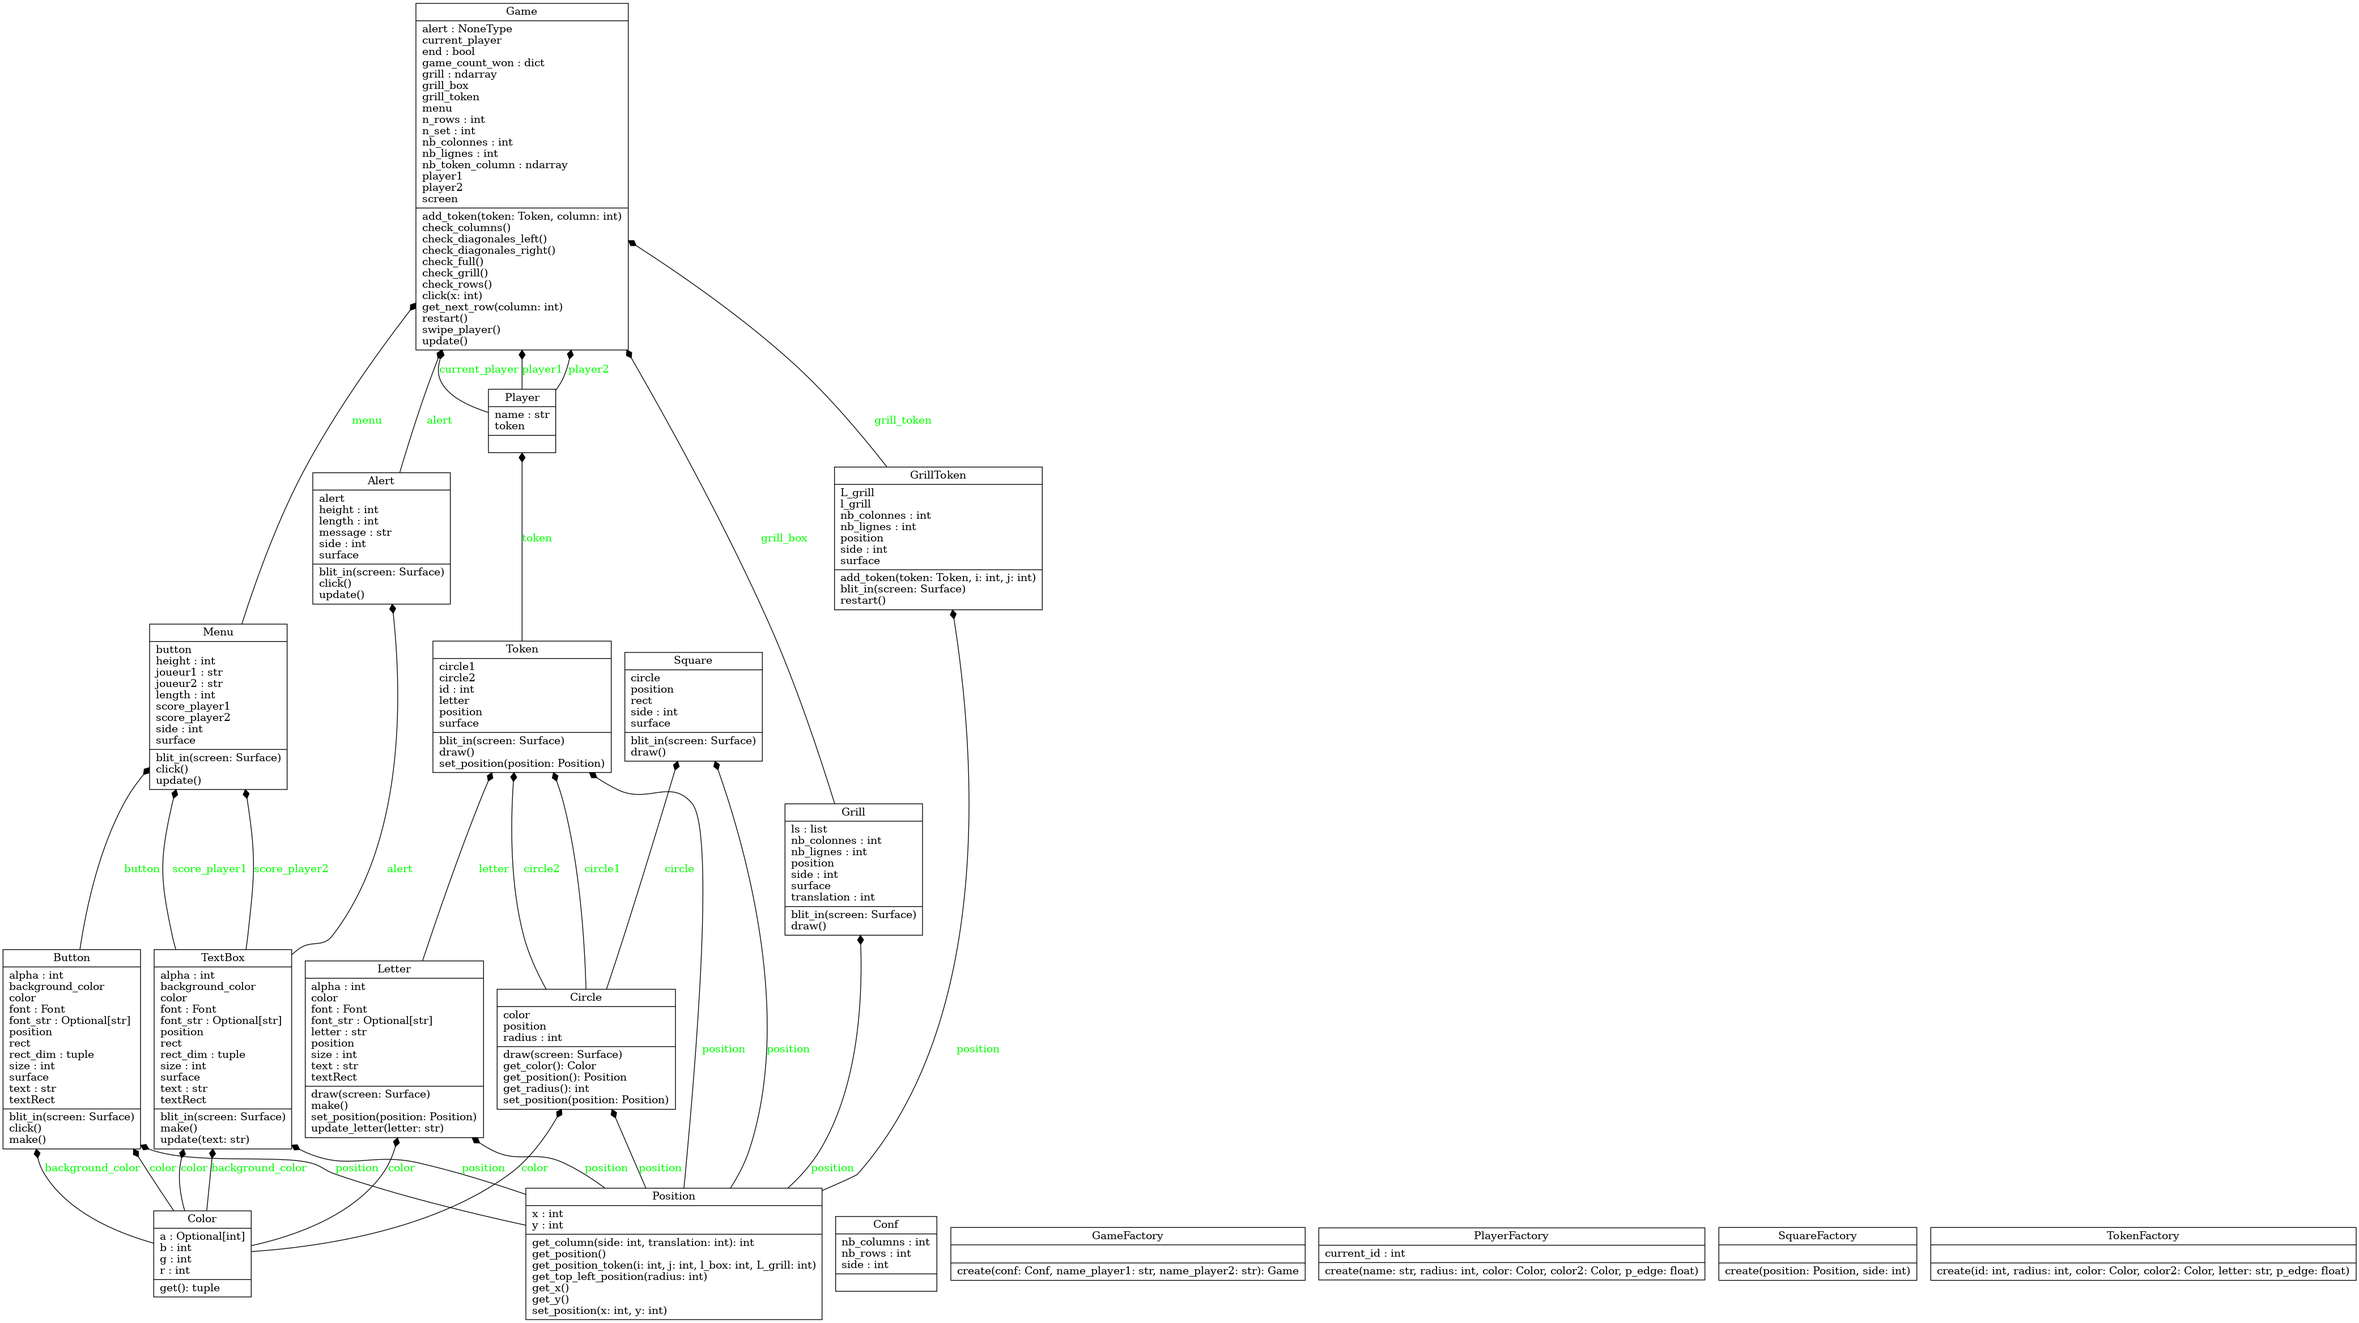
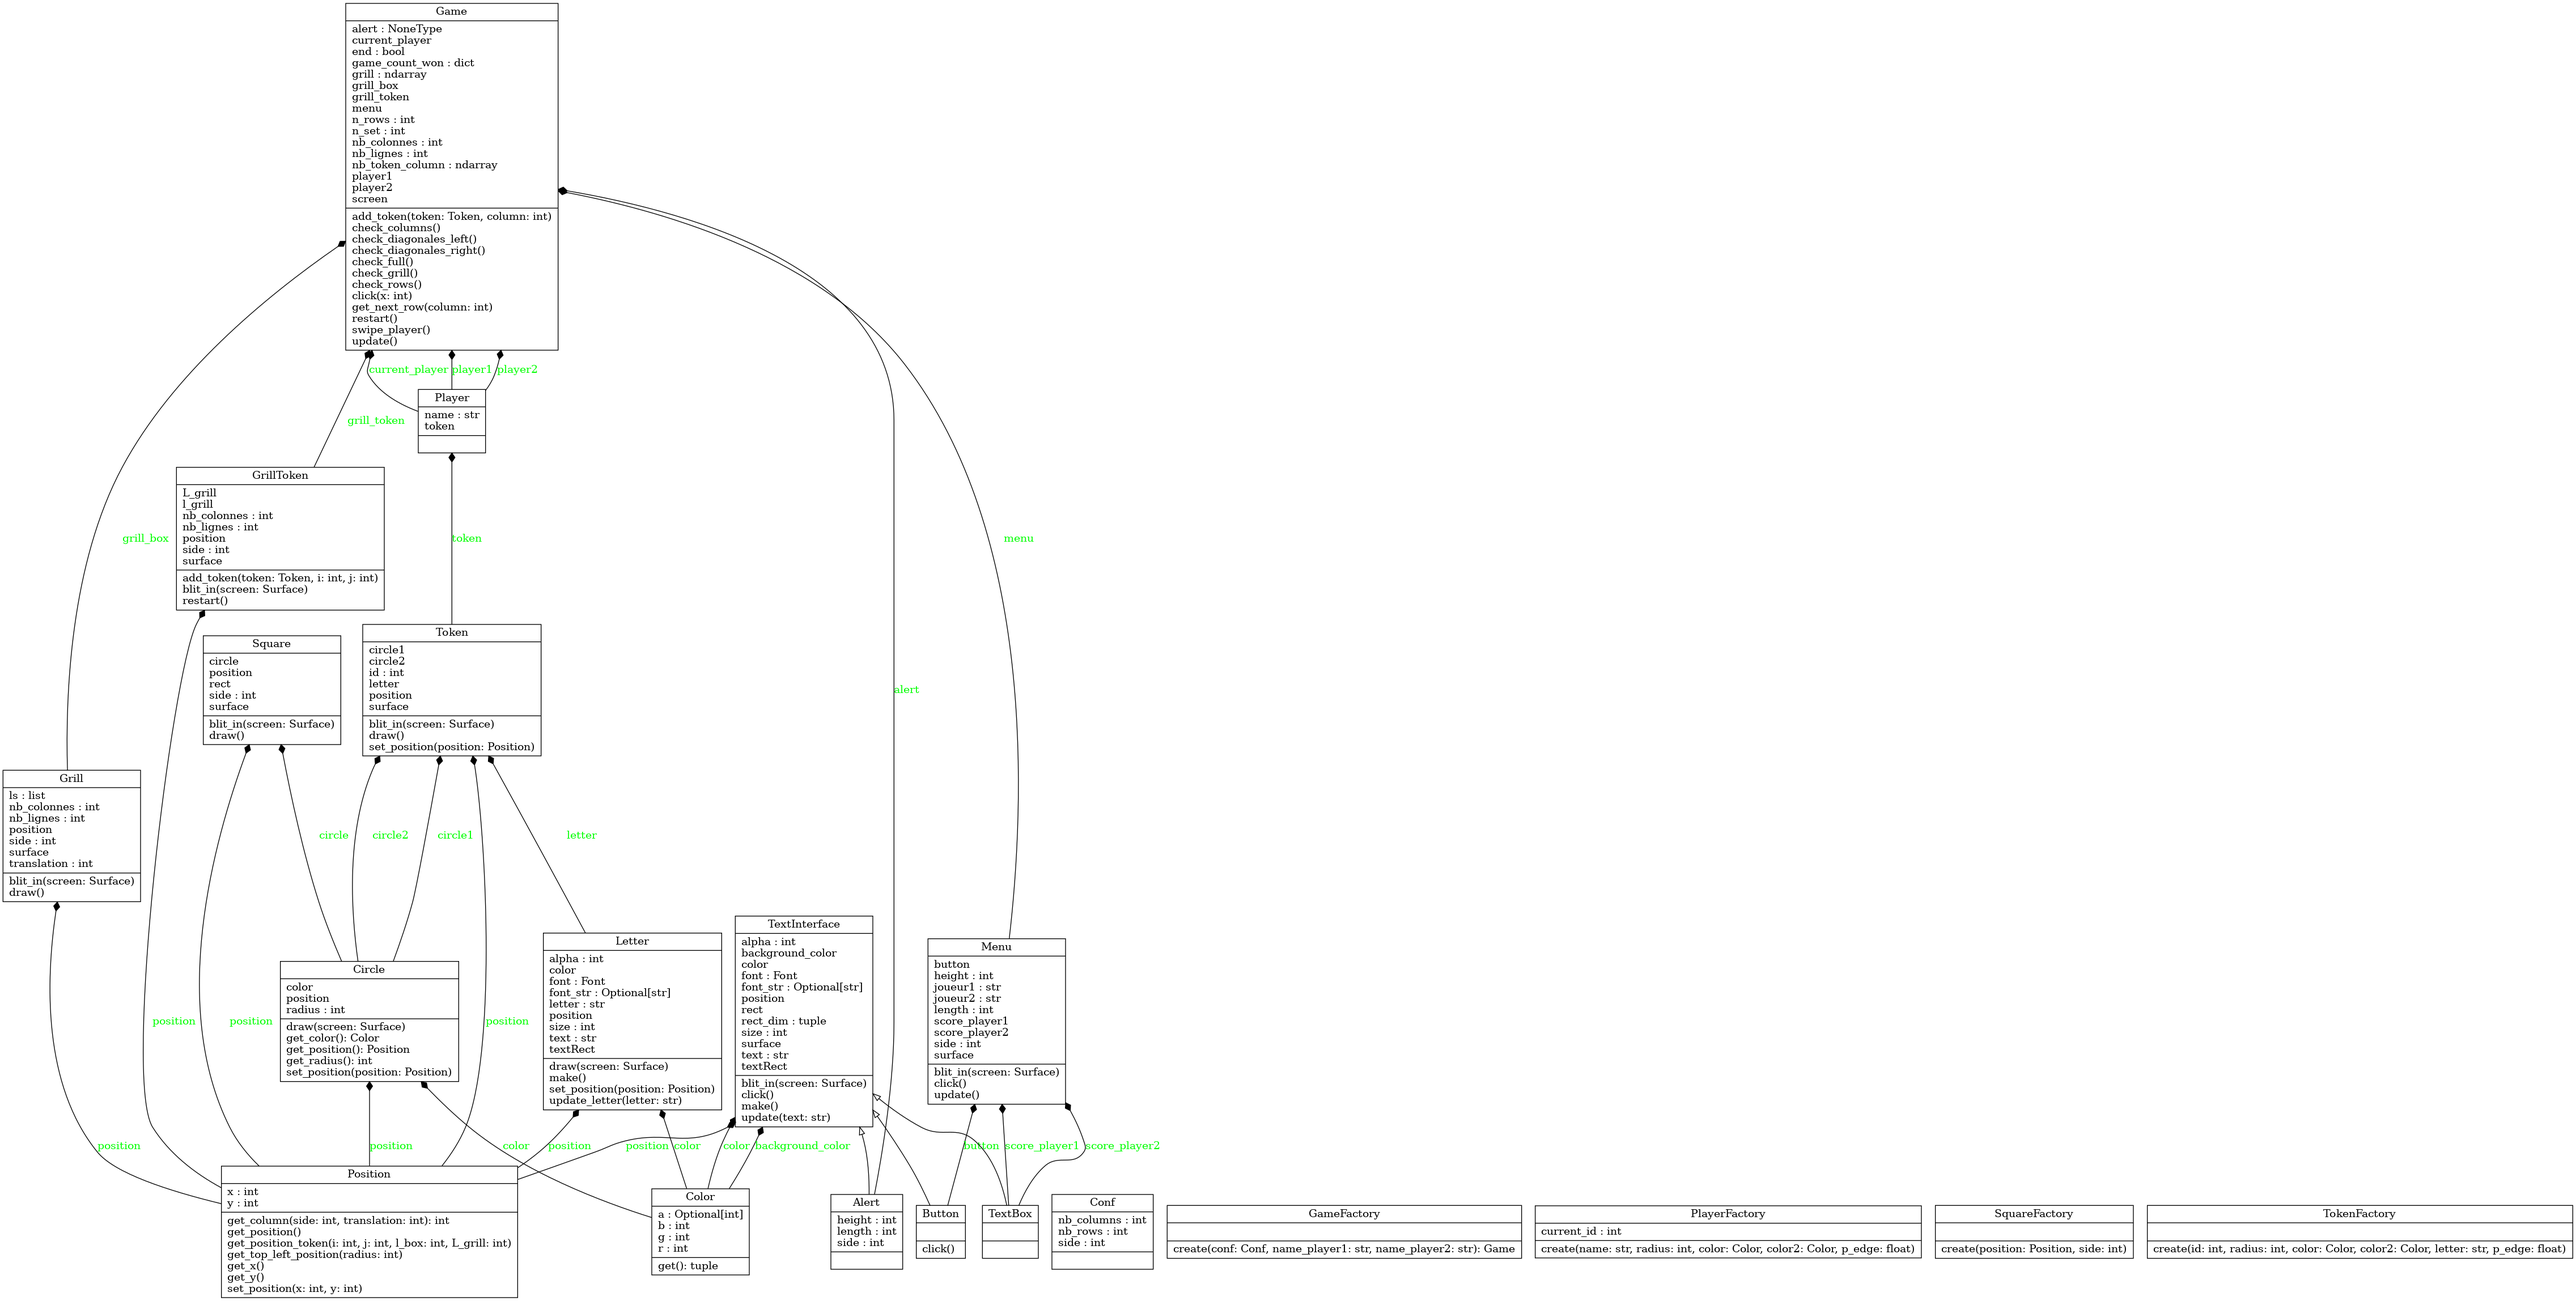
feat : update Conf

diff --git a/four_in_a_row/src/game.py b/four_in_a_row/src/game.py
@@ -2,6 +2,7 @@ import numpy as np
 from pygame import Surface
 import pygame
 
+from .conf import Conf
 from .alert import Alert
 from .menu import Menu
 from .color import BLACK, MENU_COLOR, WHITE
@@ -14,21 +15,18 @@ from .grill_token import GrillToken
 class Game:
 
     def __init__(
-            self, 
-            nb_lignes:int, 
-            nb_colonnes:int, 
+            self,
+            conf:Conf,
             player1:Player, 
             player2:Player, 
             grill_token:GrillToken, 
             grill_box:Grill,
             menu:Menu,
-            screen:Surface, 
-            n_rows:int = 4,
-            n_set:int = 3
+            screen:Surface
         ):
 
-        self.nb_lignes = nb_lignes
-        self.nb_colonnes = nb_colonnes
+        self.nb_lignes = conf.nb_rows
+        self.nb_colonnes = conf.nb_columns
         self.player1 = player1
         self.player2 = player2
         self.game_count_won = {
@@ -37,13 +35,13 @@ class Game:
         }
         self.current_player = player1
         self.grill_token = grill_token
-        self.grill = np.zeros((nb_lignes, nb_colonnes), dtype=int)
-        self.nb_token_column = np.zeros(nb_colonnes, dtype=int)
+        self.grill = np.zeros((self.nb_lignes, self.nb_colonnes), dtype=int)
+        self.nb_token_column = np.zeros(self.nb_colonnes, dtype=int)
         self.grill_box = grill_box
         self.menu = menu
         self.screen = screen
-        self.n_set = n_set
-        self.n_rows = n_rows
+        self.n_set = conf.n_set
+        self.n_rows = conf.n_rows_in_a_row
         self.end = False
         self.alert = None
 

diff --git a/four_in_a_row/src/game_factory.py b/four_in_a_row/src/game_factory.py
@@ -22,6 +22,6 @@ class GameFactory:
         player2 = PlayerFactory().create(name_player2, conf.side // 2, YELLOW, YELLOW_DARK)
         screen = pygame.display.set_mode([conf.nb_columns * conf.side + translation * conf.side, conf.nb_rows * conf.side + conf.side])
         menu = Menu(conf.side, translation, conf.nb_rows + 1, name_player1, name_player2)
-        game = Game(conf.nb_rows, conf.nb_columns, player1, player2, gt, g, menu, screen)
+        game = Game(conf, player1, player2, gt, g, menu, screen)
 
         return game

diff --git a/four_in_a_row/src/conf.py b/four_in_a_row/src/conf.py
@@ -1,4 +1,9 @@
+from dataclasses import dataclass
+
+@dataclass
 class Conf:
-    nb_rows = 5
-    nb_columns = 8
-    side = 120
+    nb_rows:int = 5
+    nb_columns:int = 8
+    side:int = 120
+    n_rows_in_a_row:int = 4
+    n_set:int = 3

diff --git a/four_in_a_row/src/text_interface.py b/four_in_a_row/src/text_interface.py
@@ -45,4 +45,4 @@ class TextInterface:
 
     def update(self, text:str):
         self.text = text
-        self.make
+        self.make()
